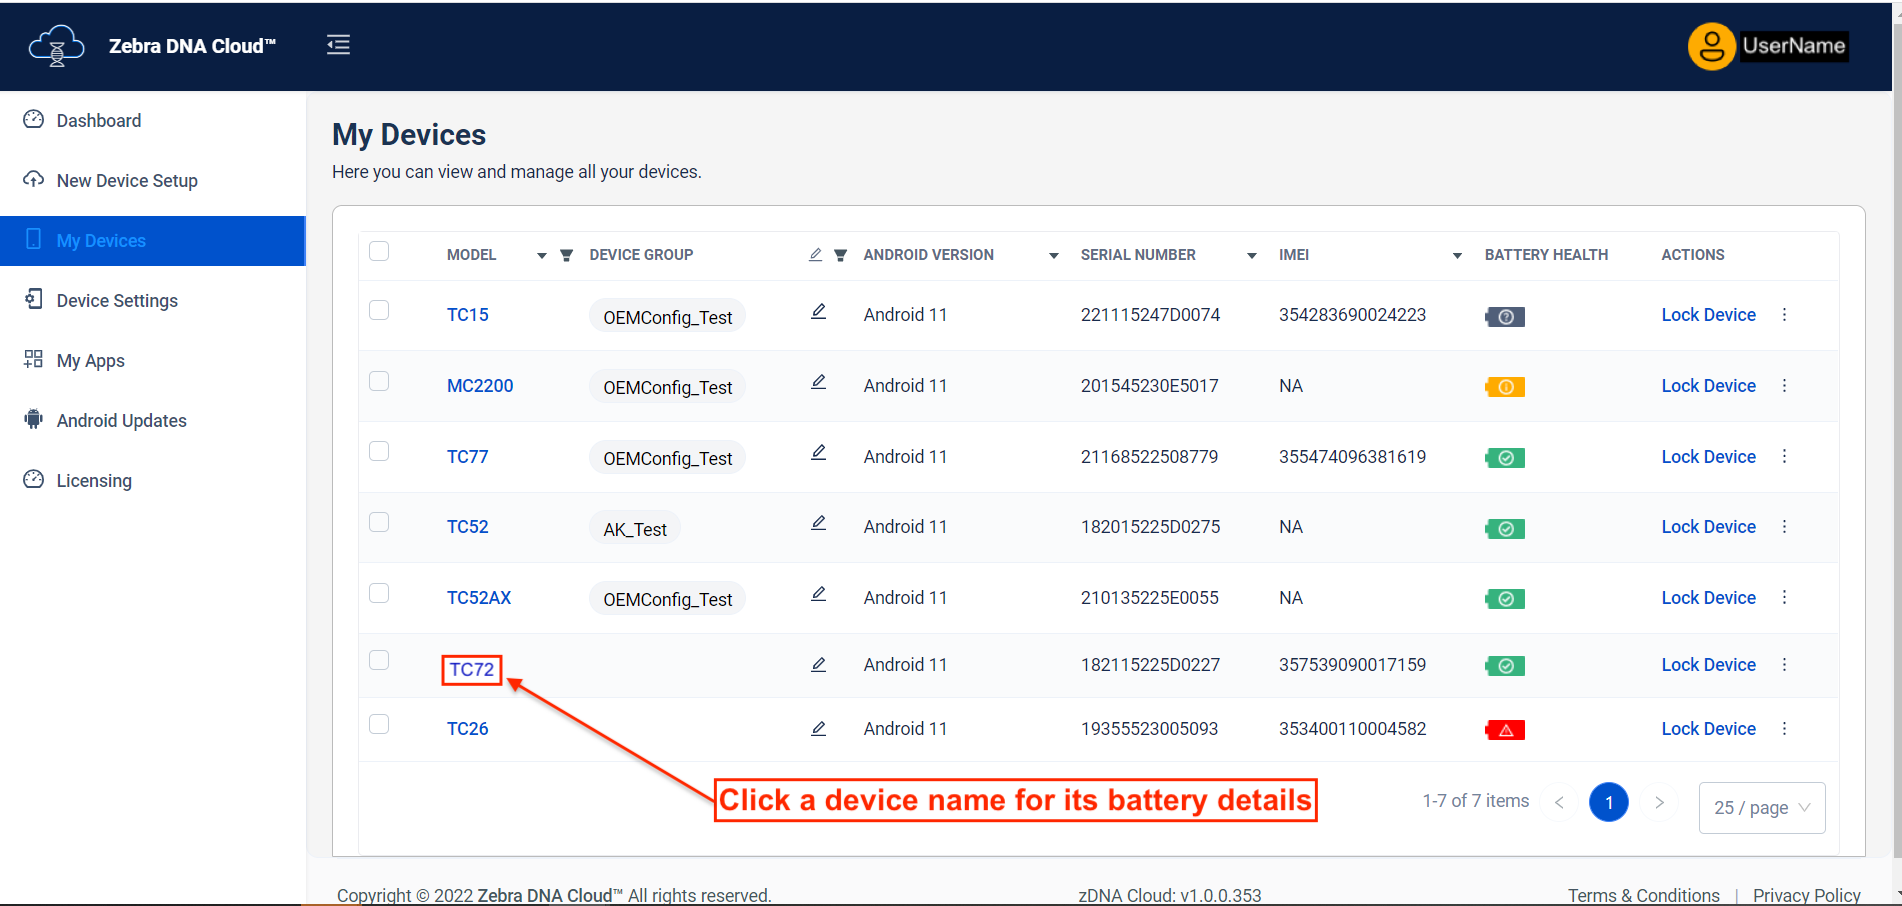
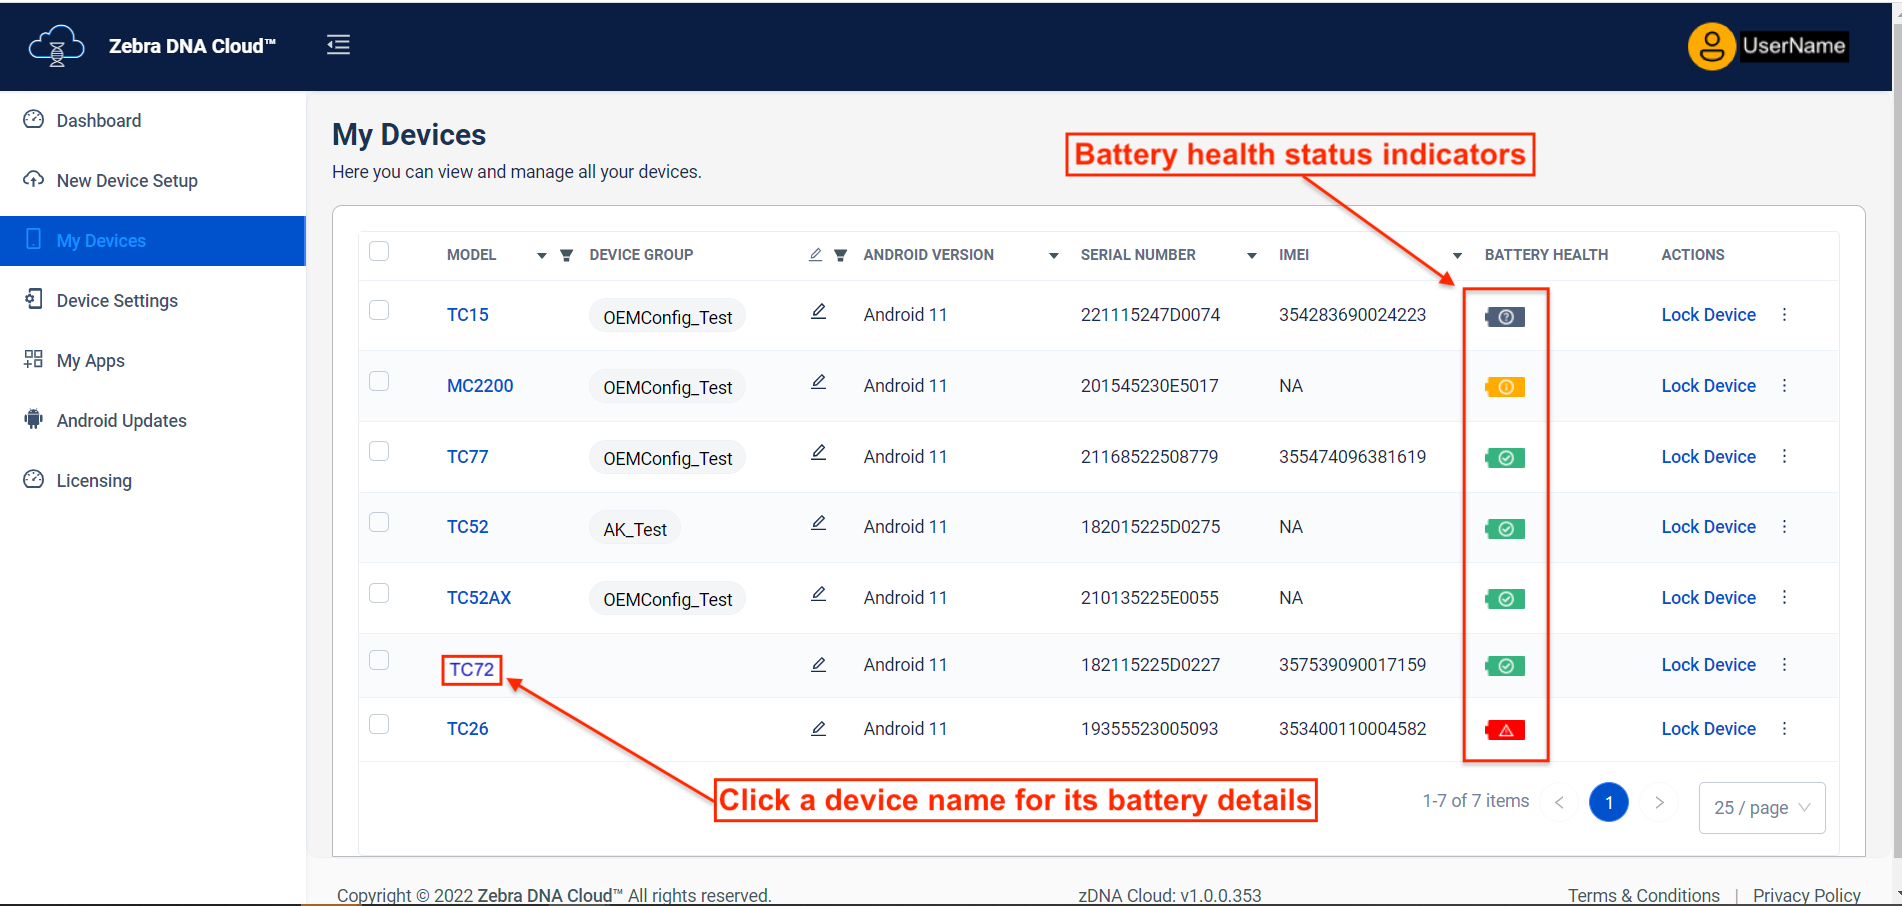
[TUT-70456] zDNA v1.1 updates, per eng; 1.0 updates for newer docs

diff --git a/zebradna/1-1/usage/index.html b/zebradna/1-1/usage/index.html
@@ -222,11 +222,13 @@
                                 <div class="service-box wow fadeInRight">
                                     <div class="">
 
-                                        <p></p><blockquote>
-  <p><i class="fa fa-exclamation-triangle" aria-hidden="true" style="color:#FFA500;"></i> Actions in this section can be performed only after zDNA Cloud has been set up by an organization. If necessary, please <strong>follow instructions in the <a href="../setup/#iconfigurenetwork">zDNA Cloud Setup Guide</a> before returning to this section</strong>.</p>
-</blockquote>
+                                        <p></p><h2 id="changelog" class="anchor"><a class="heading-anchor" href="#changelog"><span></span></a>Changelog</h2>
 
-<p></p><h2 id="overview" class="anchor"><a class="heading-anchor" href="#overview"><span></span></a>Overview</h2>
+<p><strong><code>JULY 2022</code> - Now reports <a href="#batteryhealth">battery health</a></strong> (on-device client update required). Feature can be found in the <a href="#managesettingsandgroups">Manage Settings and Groups</a> section. </p>
+
+<h2 id="overview" class="anchor"><a class="heading-anchor" href="#overview"><span></span></a>Overview</h2>
+
+<p><i class="fa fa-exclamation-triangle" aria-hidden="true" style="color:#FFA500;"></i> <strong>Actions in this section can be performed only after zDNA Cloud has been set up</strong> by an organization. If necessary, please <strong>follow instructions in the <a href="../setup/#iconfigurenetwork">zDNA Cloud Setup Guide</a> before returning to this section</strong>.</p>
 
 <p><strong>After one or more devices are enrolled and licensed in the zDNA Cloud system</strong>, administrators can begin creating and deploying device settings and performing other administrative tasks. These tasks are performed by administrators as defined below: </p>
 
@@ -588,7 +590,7 @@
 
 <h3 id="batteryhealth" class="anchor"><a class="heading-anchor" href="#batteryhealth"><span></span></a>Battery Health</h3>
 
-<p>Zebra DNA Cloud monitors and reports battery health for Zebra devices equipped with compatible batteries (as are most devices) and the latest version of the zDNA client app. For quick reference, battery health for each device is indicated using icons on the "My Devices" screen similar to the image below.</p>
+<p>Zebra DNA Cloud monitors and reports battery health <strong>for Zebra devices equipped with PowerPrecision and PowerPrecision+ batteries and the latest version of the zDNA client app</strong>. For quick reference, battery health for each device is indicated using icons on the "My Devices" screen similar to the image below.</p>
 
 <p><img alt="image" style="height:350px" src="battery_health.png">
 <em>Click image to enlarge; ESC to exit.</em>
@@ -603,17 +605,48 @@
 
 <li><b><font size="3" color="red">Red</font></b> - <strong>Replace Battery</strong></li>
 
-<li><b><font size="3" color="black">Black</font></b> - <strong>Unknown</strong></li>
+<li><b><font size="3" color="black">Black</font></b> - <strong>Unknown Battery</strong></li>
 </ul>
 
-<p><strong>Click on a Device Name in the "Model" column to display its details</strong>, including battery health and additional battery information: 
+<p><strong>Click on a Device Name in the "Model" column (above) to display its details (below)</strong>, including battery health and additional battery information: 
 <img alt="image" style="height:350px" src="battery_details.png">
 <em>Click image to enlarge; ESC to exit.</em>
 <br></p>
 
+<h4 id="batteryhealthfactors" class="anchor"><a class="heading-anchor" href="#batteryhealthfactors"><span></span></a>Battery health factors</h4>
+
+<p>The following data are used to calculate the relative health of PowerPrecision+ and PowerPrecision batteries. </p>
+
+<ul>
+<li><strong>PowerPrecision+</strong>
+
+
+<ul>
+<li><b><font size="3" color="green">Green</font></b>: <strong>Health percentage from 80%–100%</strong> ‡ </li>
+
+<li><b><font size="3" color="orange">Yellow</font></b>: <strong>Health percentage is less than 80%</strong> ‡</li>
+
+<li><b><font size="3" color="red">Red</font></b>: <strong>More than 500 charge cycles</strong> or battery is five (5) or more years old</li></ul>
+</li>
+
+<li><strong>PowerPrecision</strong>
+
+
+<ul>
+<li><b><font size="3" color="green">Green</font></b>: <strong>Fewer than 400 charge cycles</strong></li>
+
+<li><b><font size="3" color="orange">Yellow</font></b>: <strong>400–499 charge cycles</strong> </li>
+
+<li><b><font size="3" color="red">Red</font></b>: <strong>More than 500 charge cycles</strong> or battery is five (5) or more years old</li></ul>
+</li>
+</ul>
+
+<p><strong>‡</strong> <b><font size="2" color="LightGrey"><strong>Health percentage</strong> is represented as the ratio between the "present_capacity" of the battery and its "design_capacity" at a discharge rate equal to the "design_capacity."</font></b></p>
+
 <blockquote>
-  <p><i class="fa fa-check-circle" style="color:#27AE60;"></i> <strong>NOTE</strong>: Battery information reporting requires the latest zDNA client app on the device.<br>
-  &nbsp;&nbsp;&nbsp;&nbsp;&nbsp;For more information, see "Update zDNA Client" under <a href="#managedevices">Manage Devices</a>. </p>
+  <p><i class="fa fa-check-circle" style="color:#27AE60;"></i> <strong>NOTE</strong>: Battery information reporting requires the latest zDNA client app on the device.<br> 
+   &nbsp;&nbsp;&nbsp;&nbsp;&nbsp;For client update information, see "Update zDNA Client" under <a href="#managedevices">Manage Devices</a>.<br><br>
+  &nbsp;&nbsp;&nbsp;&nbsp;&nbsp;For more information about battery health and maintenance, see <a href="/mx/batterymgr">Battery Manager</a>.</p>
 </blockquote>
 
 <!-- 

diff --git a/zebradna/1-0/about/index.html b/zebradna/1-0/about/index.html
@@ -222,7 +222,10 @@
                                 <div class="service-box wow fadeInRight">
                                     <div class="">
 
-                                        <p></p><h2 id="overview" class="anchor"><a class="heading-anchor" href="#overview"><span></span></a>Overview</h2>
+                                        <p></p><div class="alert alert-danger alert-dismissible fade in" role="alert"> <button type="button" class="close" data-dismiss="alert" aria-label="Close"><span aria-hidden="true">×</span></button> <h4 id="-a-newer-version-of-this-documentation-is-available" class="anchor"><a class="heading-anchor" href="#-a-newer-version-of-this-documentation-is-available"><span></span></a><i class="fa fa-exclamation-circle" style="color:#FF0000;"></i> A newer version of this documentation is available.</h4><br><a href="/zebradna" class="btn btn-danger">See the latest</a>
+<p></p> </div>
+
+<p></p><h2 id="overview" class="anchor"><a class="heading-anchor" href="#overview"><span></span></a>Overview</h2>
 
 <p><strong><a href="https://dnacloud.zebra.com">Zebra DNA Cloud</a> is an administrative solution for Zebra devices and apps</strong> that can stand alone or work with a company's existing Enterprise Mobility Management (EMM) system. Like a browser-based version of <a href="/stagenow">Zebra StageNow</a>, Zebra DNA Cloud is a configuration tool for devices running Android that also performs licensing and other administration tasks, and eventually will do much more. Also like StageNow, zDNA Cloud leverages the power of Zebra's Mobility Extensions (MX) and is controlled through a simple, intuitive UI. </p>
 

diff --git a/zebradna/1-0/usage/index.html b/zebradna/1-0/usage/index.html
@@ -222,7 +222,10 @@
                                 <div class="service-box wow fadeInRight">
                                     <div class="">
 
-                                        <p></p><blockquote>
+                                        <p></p><div class="alert alert-danger alert-dismissible fade in" role="alert"> <button type="button" class="close" data-dismiss="alert" aria-label="Close"><span aria-hidden="true">×</span></button> <h4 id="-a-newer-version-of-this-documentation-is-available" class="anchor"><a class="heading-anchor" href="#-a-newer-version-of-this-documentation-is-available"><span></span></a><i class="fa fa-exclamation-circle" style="color:#FF0000;"></i> A newer version of this documentation is available.</h4><br><a href="/zebradna/1-1/usage" class="btn btn-danger">See the latest</a>
+<p></p> </div>
+
+<blockquote>
   <p><i class="fa fa-exclamation-triangle" aria-hidden="true" style="color:#FFA500;"></i> Actions in this section can be performed only after zDNA Cloud has been set up by an organization. If necessary, please <strong>follow instructions in the <a href="../setup/#iconfigurenetwork">zDNA Cloud Setup Guide</a> before returning to this section</strong>.</p>
 </blockquote>
 
